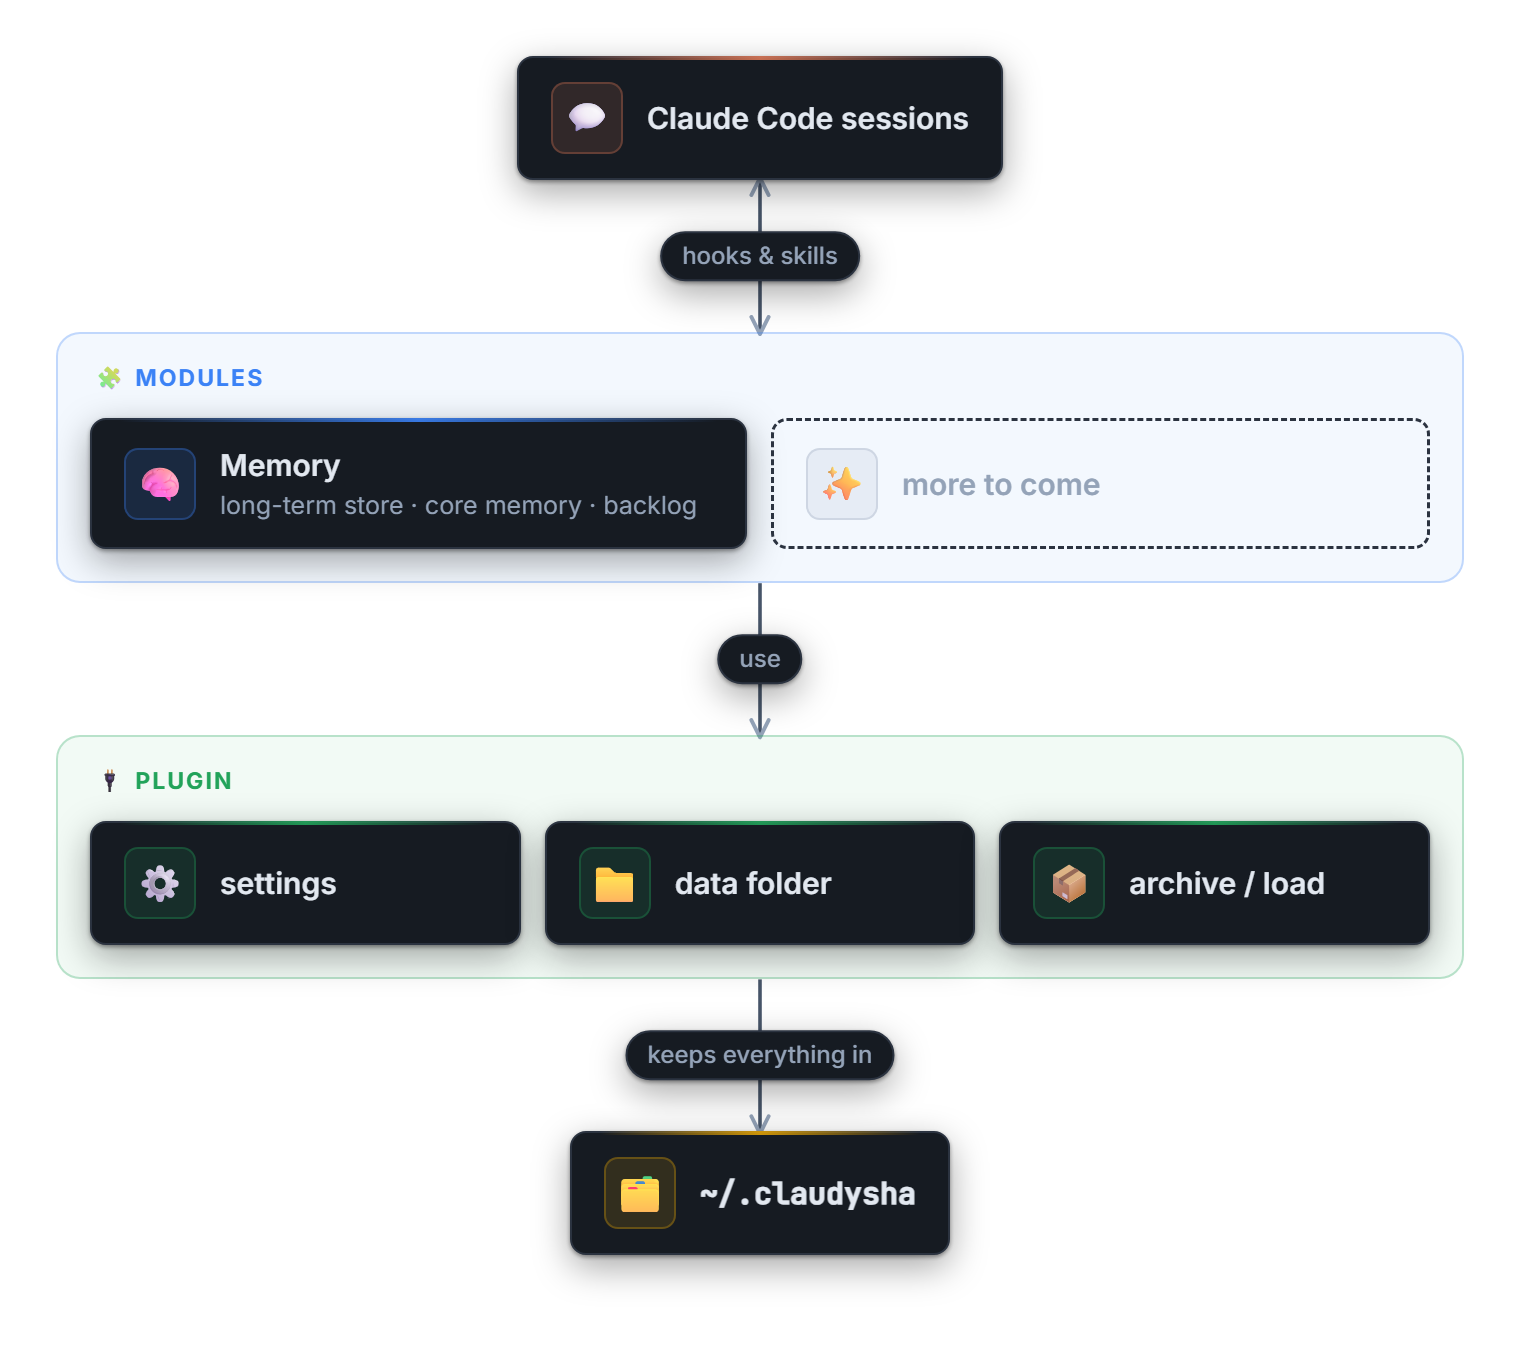
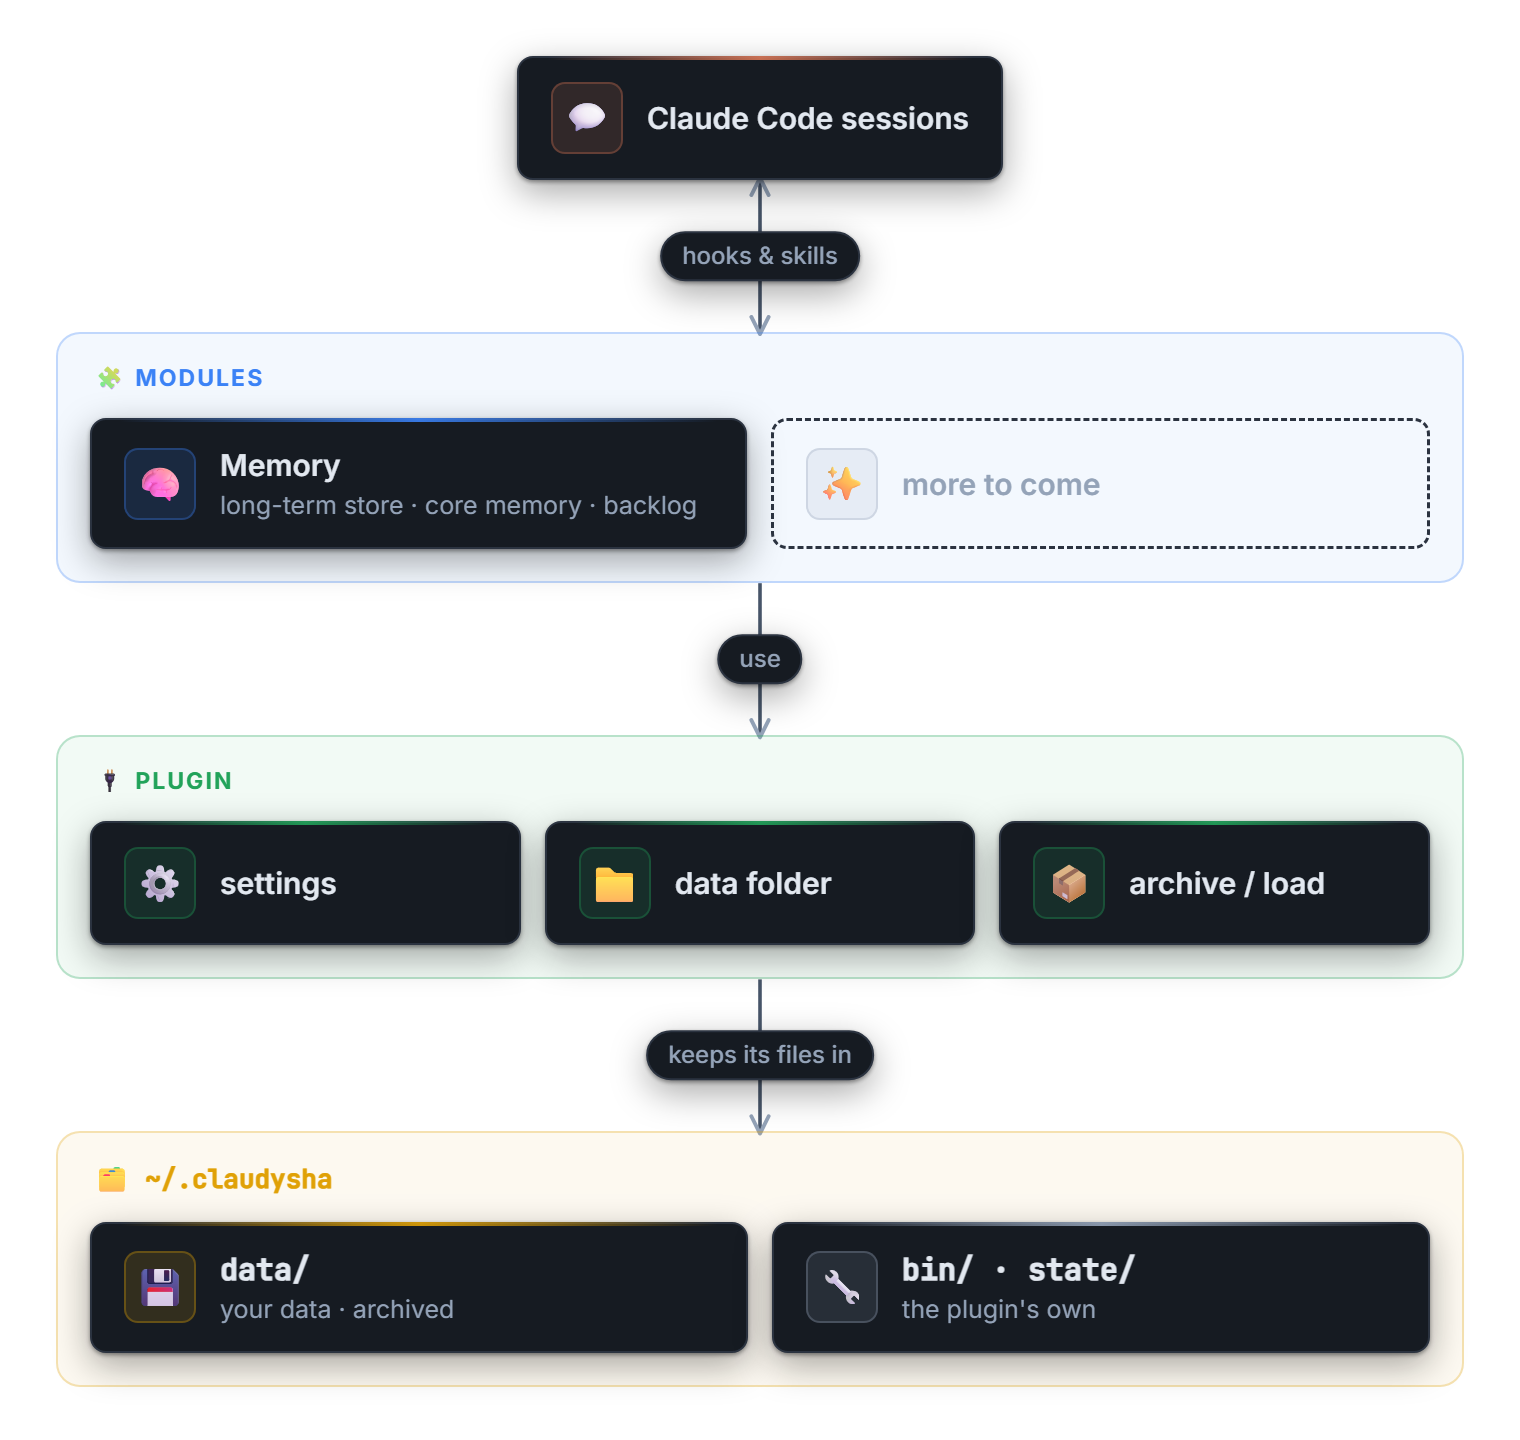
docs(readme): show the data/ and bin/ state/ split in the architecture diagram

Changed region(s): [[0.0309, 0.0309, 0.9586, 0.9882], [0.8967, 0.2779, 0.9276, 0.3088]]

diff --git a/docs/diagrams/architecture.html b/docs/diagrams/architecture.html
@@ -10,8 +10,10 @@
     <div class="card green"><div class="ico">⚙</div><div><b>settings</b></div></div>
     <div class="card green"><div class="ico">📁</div><div><b>data folder</b></div></div>
     <div class="card green"><div class="ico">📦</div><div><b>archive / load</b></div></div></div></div>
-  <div class="card amber" id="data"><div class="ico">🗂</div><div><b class="mono">~/.claudysha</b></div></div>
+  <div class="panel amber" id="data"><h3 class="mono" style="text-transform:none;letter-spacing:0;font-size:13px">🗂 ~/.claudysha</h3><div class="row">
+    <div class="card amber"><div class="ico">💾</div><div><b class="mono">data/</b><small>your data · archived</small></div></div>
+    <div class="card grey"><div class="ico" style="--c:var(--grey)">🔧</div><div><b class="mono">bin/ · state/</b><small>the plugin's own</small></div></div></div></div>
 </div>
 <script src="wires.js"></script><script>
-wire("cc","mods","hooks &amp; skills","b","t",{both:true});wire("mods","plg","use");wire("plg","data","keeps everything in");
+wire("cc","mods","hooks &amp; skills","b","t",{both:true});wire("mods","plg","use");wire("plg","data","keeps its files in");
 </script></body></html>

diff --git a/README.md b/README.md
@@ -29,7 +29,7 @@ claudysha has two layers: **the plugin**, which provides what every module share
 <p align="center">
 <picture>
   <source media="(prefers-color-scheme: dark)" srcset="docs/diagrams/architecture-dark.png">
-  <img alt="Claude Code sessions use modules through hooks and skills; modules use the plugin (settings, data folder, archive / load), which keeps everything in ~/.claudysha" src="docs/diagrams/architecture-light.png" width="560">
+  <img alt="Claude Code sessions use modules through hooks and skills; modules use the plugin (settings, data folder, archive / load), which keeps its files in ~/.claudysha: your data in data/ (archived), its own commands and state in bin/ and state/" src="docs/diagrams/architecture-light.png" width="560">
 </picture>
 </p>
 
